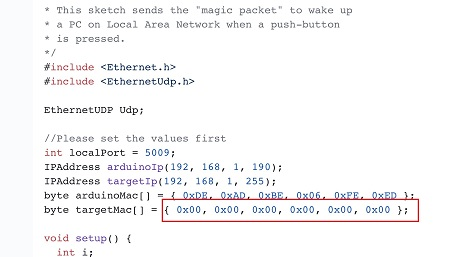
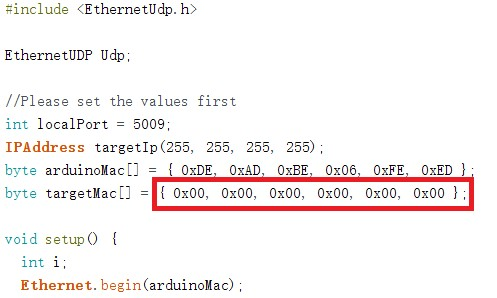
modified:   README.md 	modified:   images/code.jpg 	deleted:    images/connect.jpg 	modified:   wakeup.ino

Changed region(s): [[0.0, 0.249, 0.976, 0.8716], [0.0, 0.0, 0.7625, 0.2179], [0.0305, 0.8716, 0.488, 0.9961]]

diff --git a/README.md b/README.md
@@ -1,12 +1,11 @@
 ## Overview
-Wakeup is an Arduino project for waking up your remote PC.
+Wakeup is an Arduino project to keep your PC power on with ethernet.
 ![photo](images/photo.jpg)
 
 ## How to make it work
-1. Make sure your PC network card supports WOL.
-2. You need an Arduino board with Ethernet module and a Wi-Fi smart power strip.
+1. Make sure your PC network card supports WOL and enabled WOL in BIOS.
+2. You need an Arduino board with Ethernet module.
 3. Replace the Target MAC address in source code with your PC network card MAC address. Then download the code to your Arduino board.
 ![code](images/code.jpg)
-4. Connect them like that:
-![connect](images/connect.jpg)
-5. Then it works, when you turn on the Wi-Fi power strip, Arduino will send a "magic package" to your PC and turn it on.
+4. Connect your Arduino board to the router.
+5. Then it works, Arduino will send a "magic package" to your PC every 10 secs and keep it power off.
